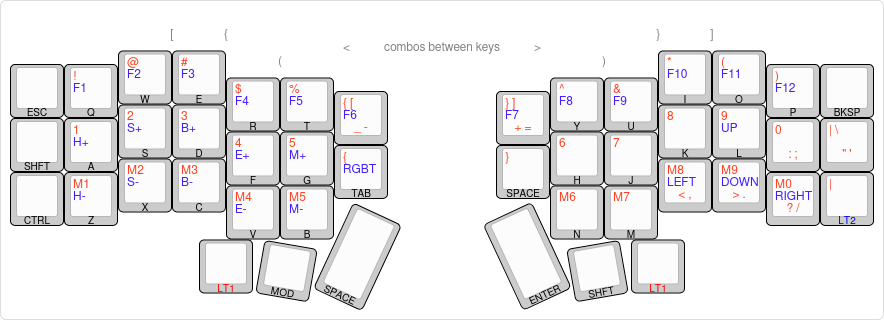
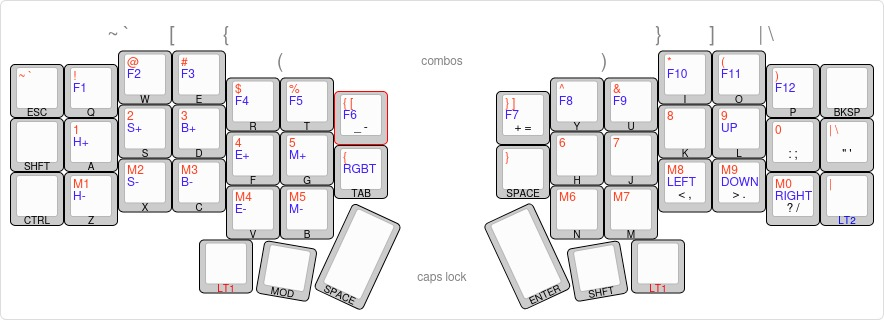
readme change

diff --git a/x3hy/keymap.c b/x3hy/keymap.c
@@ -64,11 +64,12 @@ enum combos {
 	left_curly_combo,
 	right_curly_combo,
 
-	left_slash_combo,
-	left_pipe_combo,
-
 	left_paren_combo,
-	right_paren_combo
+	right_paren_combo,
+
+	caps_lock_combo,
+	tilda_tick_combo,
+	backslash_combo
 };
 
 const uint16_t PROGMEM left_bracket[] =  {KC_W, KC_E, COMBO_END};
@@ -79,6 +80,10 @@ const uint16_t PROGMEM right_paren[] =   {KC_Y, KC_U, COMBO_END};
 const uint16_t PROGMEM right_curly[] =   {KC_U, KC_I, COMBO_END};
 const uint16_t PROGMEM right_bracket[] = {KC_I, KC_O, COMBO_END};
 
+const uint16_t PROGMEM caps_lock[] = {KC_SPC, KC_ENT, COMBO_END};
+const uint16_t PROGMEM tilda_tick[] = {KC_Q, KC_W, COMBO_END};
+const uint16_t PROGMEM backslash[] = {KC_O, KC_P, COMBO_END};
+
 combo_t key_combos[] = {
 	[left_bracket_combo]  = COMBO(left_bracket, KC_LBRC),
 	[left_curly_combo]    = COMBO(left_curly, S(KC_LBRC)),
@@ -87,6 +92,10 @@ combo_t key_combos[] = {
 	[right_bracket_combo] = COMBO(right_bracket, KC_RBRC),
 	[right_curly_combo]   = COMBO(right_curly, S(KC_RBRC)),
 	[right_paren_combo]   = COMBO(right_paren, S(KC_0)),
+
+	[caps_lock_combo]     = COMBO(caps_lock, KC_CAPS),
+	[tilda_tick_combo]    = COMBO(tilda_tick, KC_GRV),
+	[backslash_combo]     = COMBO(blackslash, KC_BSLS)
 };
 
 const uint16_t PROGMEM keymaps[][MATRIX_ROWS][MATRIX_COLS] = {

diff --git a/x3hy/config.h b/x3hy/config.h
@@ -27,7 +27,7 @@ along with this program.  If not, see <http://www.gnu.org/licenses/>.
 
 #define COMBO_TERM 150 // ms
 #define COMBO_VARIABLE_LEN
-#define COMBO_COUNT 8
+#define COMBO_COUNT 9
 
 
 #define RGB_MATRIX_SLEEP